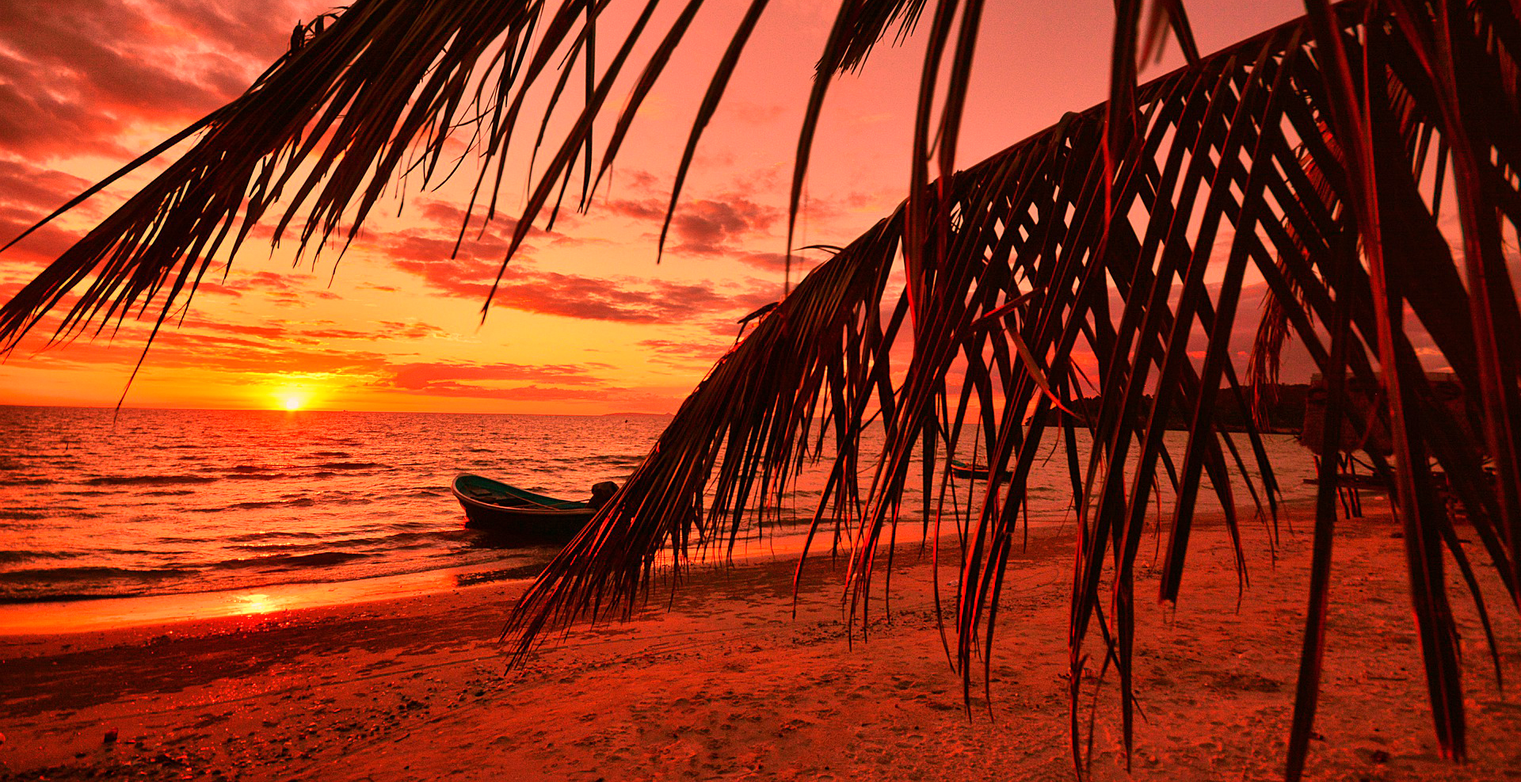
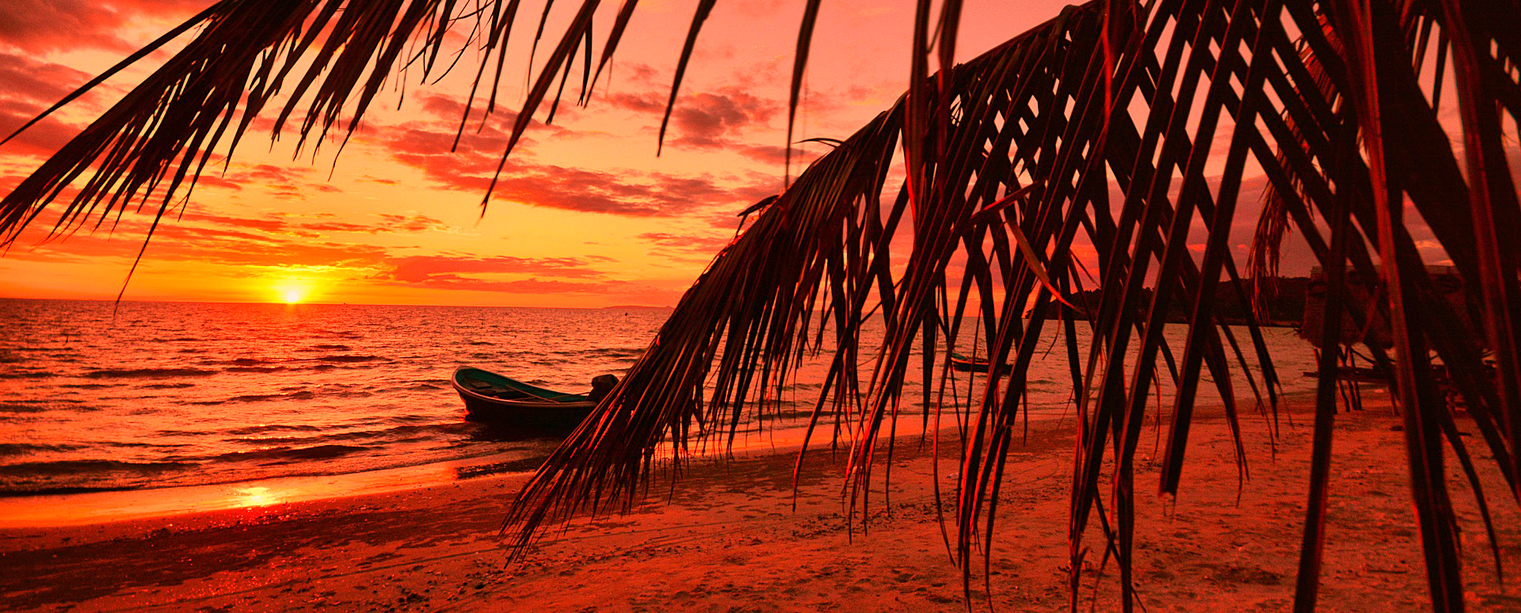
Break away

diff --git a/stylesheet.css b/stylesheet.css
@@ -1,0 +1,46 @@
+*,
+::before,
+::after {
+    margin: 0px;
+    padding: 0px;
+    box-sizing: border-box;
+}
+
+html {
+    font-size: 62.5%;
+    scroll-behavior: smooth;
+}
+
+.bannerContainer {
+    width: 100%;
+    height: auto;
+    position: relative;
+    display: flex;
+}
+
+.banner {
+    width: 100%;
+    z-index: -1;
+}
+
+.alignTitle {
+    position: absolute;
+    width: 65%;
+    display: flex;
+    flex-direction: column;
+    justify-self: flex-end;
+}
+
+.headTitle, .slogan {
+    color: white;
+}
+
+.headTitle {
+    font-family: Impact, Haettenschweiler, 'Arial Narrow Bold', sans-serif;
+    font-size: 16rem;
+}
+
+.slogan {
+    font-family: 'Segoe UI', Tahoma, Geneva, Verdana, sans-serif;
+    font-size: 8rem;
+}

diff --git a/index.html b/index.html
@@ -4,9 +4,22 @@
     <meta charset="UTF-8">
     <meta http-equiv="X-UA-Compatible" content="IE=edge">
     <meta name="viewport" content="width=device-width, initial-scale=1.0">
+    <link rel="stylesheet" href="/stylesheet.css">
+    <script defer src="/app.js"></script>
     <title>Get Away!</title>
 </head>
 <body>
-    
+    <header>
+        <div class="bannerContainer">
+            <div class="alignTitle">
+                <h1 class="headTitle">Break Away</h1>
+                <h2 class="slogan">Get out and experience a tropical life</h2>
+            </div>
+            <img src="/images/header.jpg" alt="" class="banner">
+        </div>
+        <nav class="navbar">
+
+        </nav>
+    </header>
 </body>
 </html>
